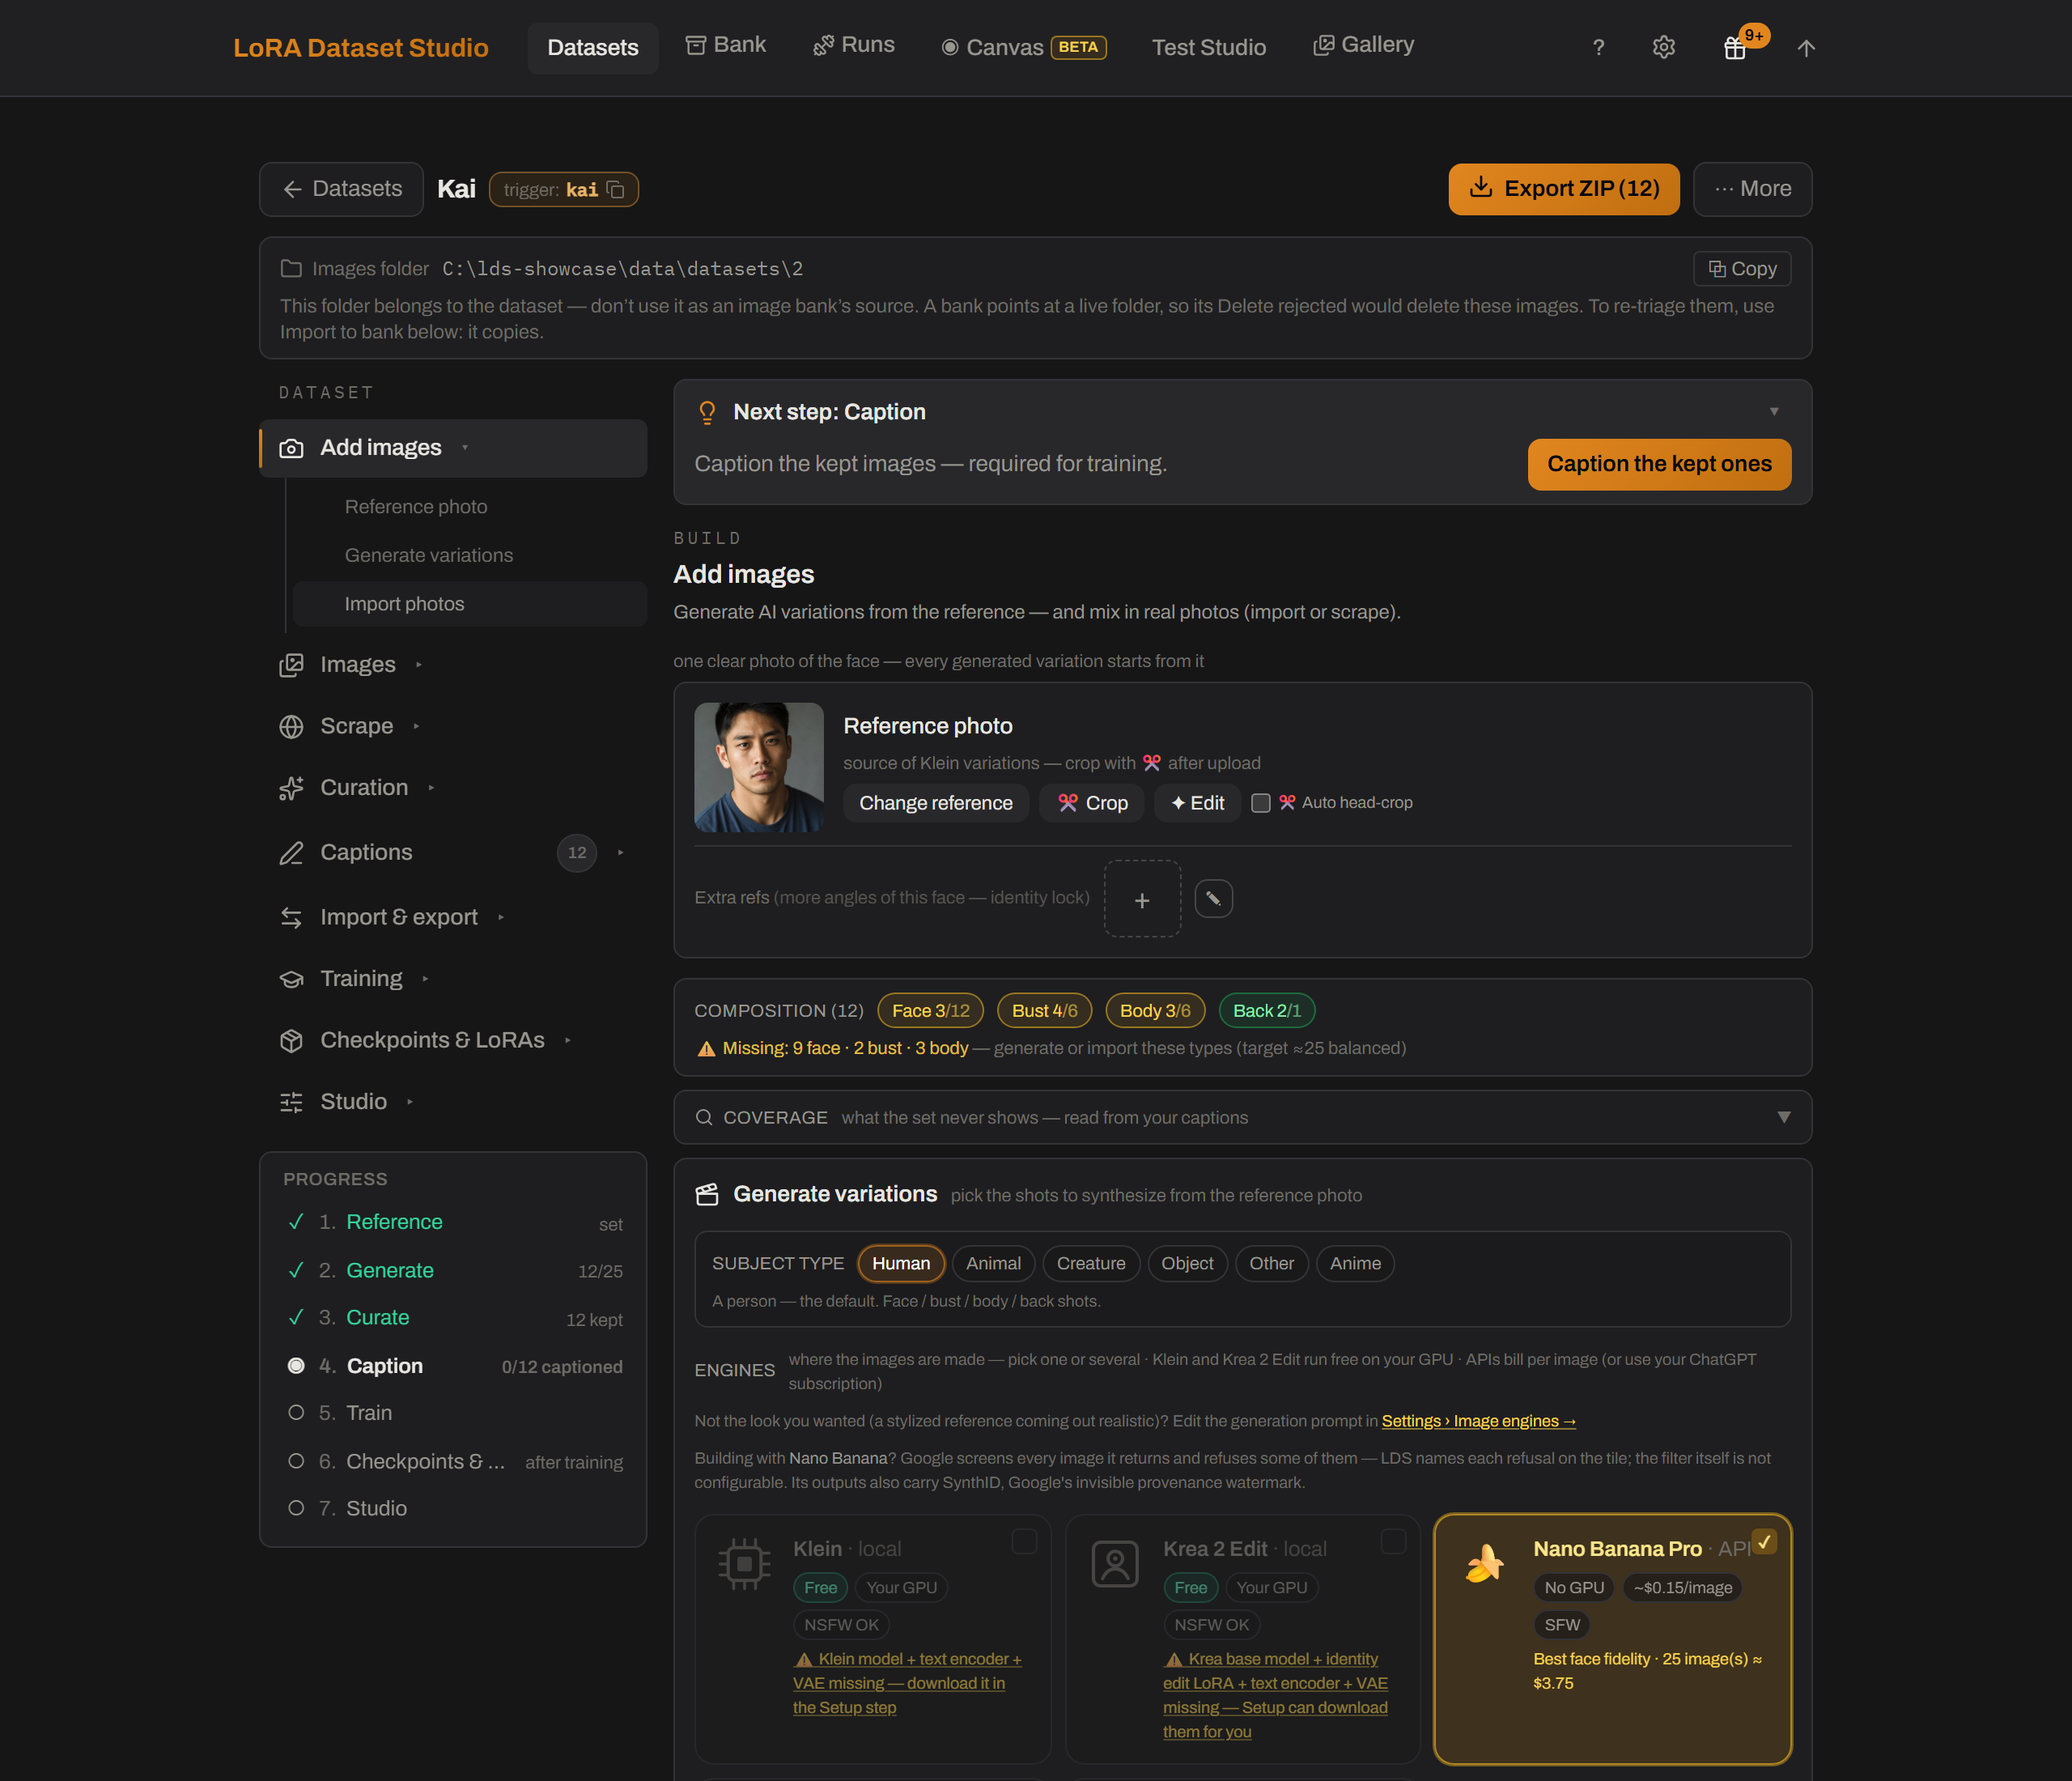
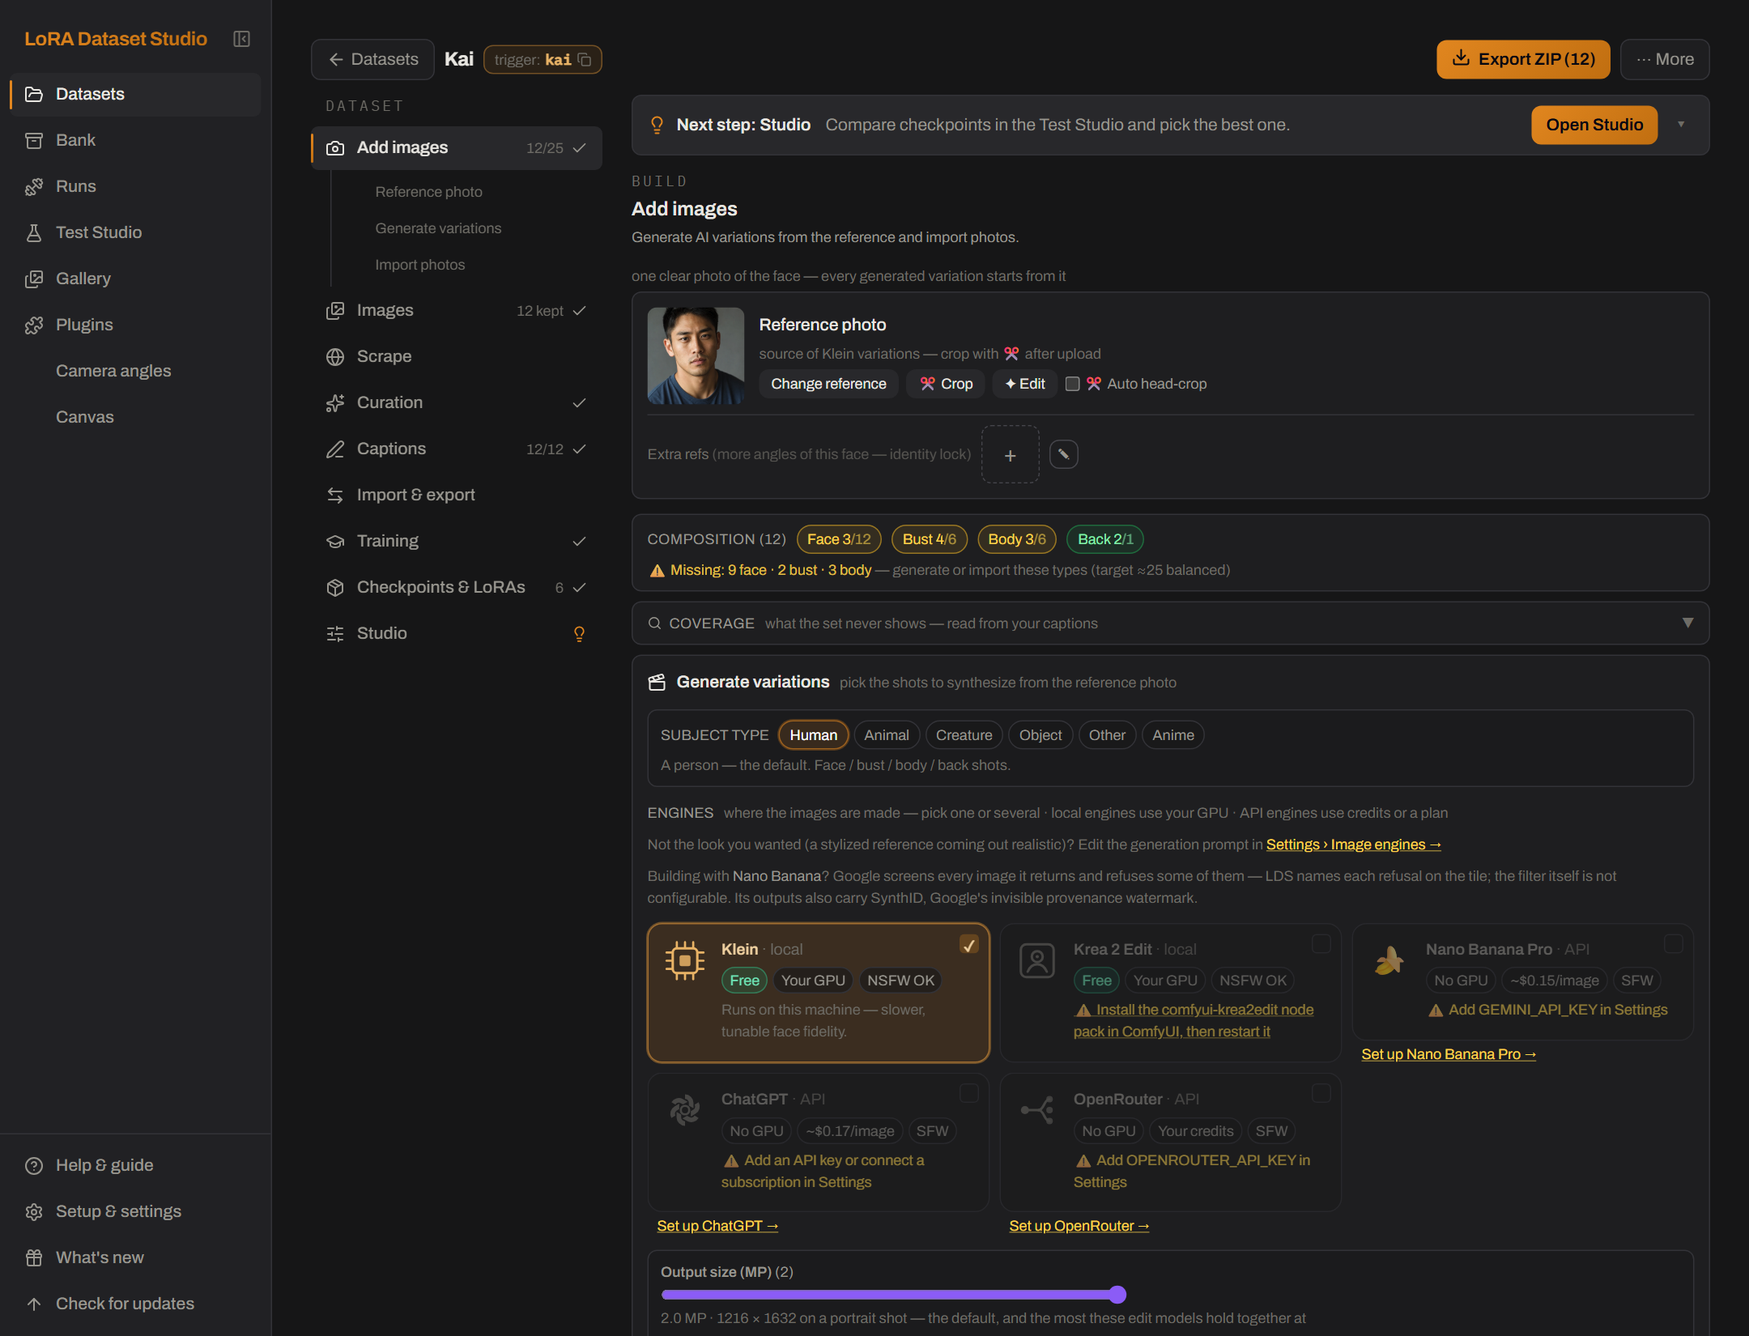
docs(screenshots): the README pictures show the side menu and the wider workspace
Eleven pictures retaken on the showcase instance (generated people, no real data), the old top bar cut from the video one, and two sentences of the guide that described the previous pictures.

diff --git a/docs/guide/features.md b/docs/guide/features.md
@@ -35,12 +35,12 @@ The cuts are measured rather than guessed: the aesthetic and near-duplicate thre
       <a href="../screenshots/bank/bank-analyze-and-overview.png"><img src="../screenshots/bank/bank-analyze-and-overview.png" alt="The Bank workspace: the Passes panel with every analysis pass, and a Bank overview reporting coverage, resolution, framing, medium and structure for the whole bank" width="100%"></a>
     </td>
     <td width="38%" valign="top">
-      <a href="../screenshots/bank/bank-launch-all.png"><img src="../screenshots/bank/bank-launch-all.png" alt="The Launch all dialog: eight passes ticked, each quality flag quoting how many images it would reject, and a warning that unscanned images will change those counts" width="100%"></a>
+      <a href="../screenshots/bank/bank-launch-all.png"><img src="../screenshots/bank/bank-launch-all.png" alt="The Launch all dialog: the passes that will run are ticked, each quality flag quotes how many images it would reject, and a pass whose tool is not installed is marked will skip" width="100%"></a>
     </td>
   </tr>
   <tr>
     <td valign="top"><sub><strong>The workspace</strong> — every pass on the left, and on the right what the bank actually <em>is</em>: how much of it each pass has covered, its resolutions, framings, mediums, and how many duplicate and person groups are still unresolved. Every number here is measured, never assumed: a pass that has not run says so instead of showing a zero.</sub></td>
-    <td valign="top"><sub><strong>Launch all</strong> — the whole triage in one go. Every flag quotes what it would reject <em>today</em>, and says out loud that 3,602 images have not been scanned yet, so those counts will grow. Stop it any time; a pass whose tool is missing is skipped, never failed.</sub></td>
+    <td valign="top"><sub><strong>Launch all</strong> — the whole triage in one go. Every flag quotes what it would reject <em>today</em>. Stop it any time; a pass whose tool is missing is skipped, never failed.</sub></td>
   </tr>
 </table>
 
